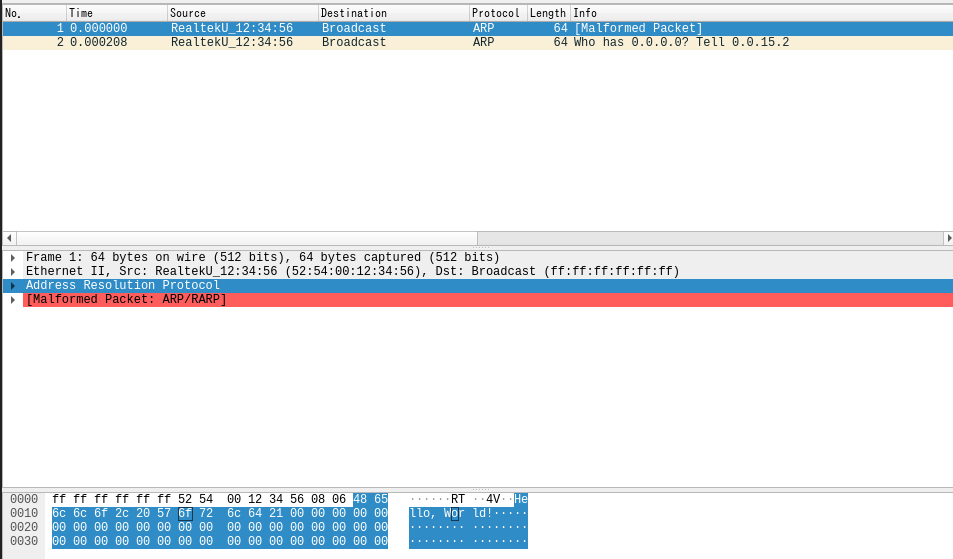
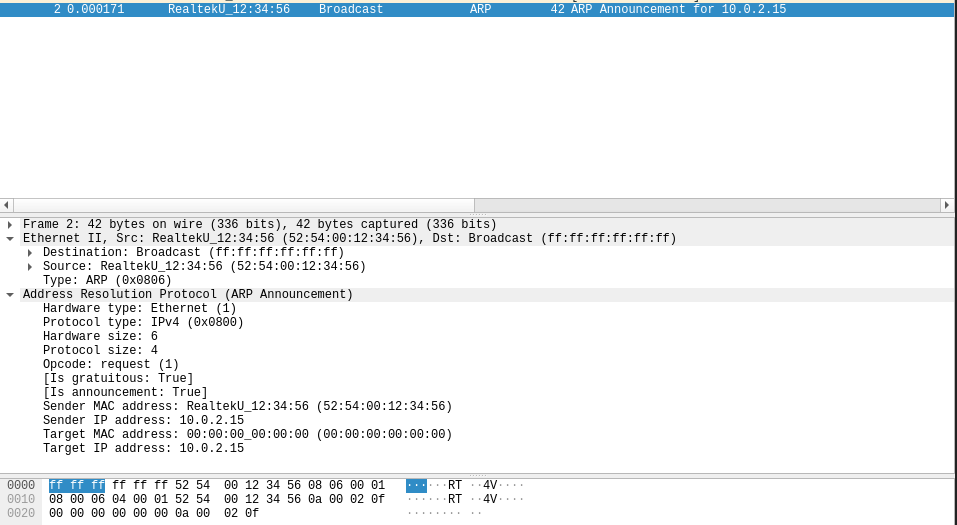
Fix bugs caused by struct padding and so on

Changed region(s): [[0.0, 0.0, 1.0, 1.0]]

diff --git a/ether.c b/ether.c
@@ -20,24 +20,14 @@ uint32_t gen_frame(void *dst, struct ether_hdr *ehdr, void *p_data, uint32_t dat
     memmove((void *)&hdr->type, (void *)&ehdr->type, ETHER_TYPE_LEN);
     memmove((void *)data, (void *)p_data, data_len);
 
-    if (data_len < ETHER_DATA_MIN_LEN) {
-        memset(data+data_len, 0, ETHER_DATA_MIN_LEN-data_len); // needs padding!
-        memmove(dst, (void *)frame, ETHER_FRAME_MIN_LEN);
-        return (uint32_t)ETHER_FRAME_MIN_LEN;
-    }
-    else {
-        memmove(dst, (void *)frame, ETHER_HDR_LEN + data_len);
-        return (uint32_t)(ETHER_HDR_LEN + data_len);
-    }
+    memmove(dst, (void *)frame, ETHER_HDR_LEN + data_len);
+    return (uint32_t)(ETHER_HDR_LEN + data_len);
 }
 
 
 uint32_t sendframe(struct net *inet, void *p_packet, uint32_t packet_len)
 {
-    if (packet_len > ETHER_DATA_MAX_LEN || !p_packet)
-        return 0;
-
-    if (packet_len < ETHER_DATA_MIN_LEN)
+    if (packet_len > ETHER_DATA_MAX_LEN || !p_packet || !packet_len)
         return 0;
 
     uint32_t (*send)(struct net *inet, void *p_packet, uint32_t packet_len) = inet->send;

diff --git a/arp.c b/arp.c
@@ -19,7 +19,7 @@ static inline void arp_ether_ipv4_set_len(struct arp_frame *arp)
 }
 
 
-void gen_ether_arp_probe(struct net *inet, struct arp_frame *arp)
+void gen_ether_garp(struct net *inet, struct arp_frame *arp)
 {
     arp_ether_ipv4_set_type(arp);
     arp_ether_ipv4_set_len(arp);
@@ -46,7 +46,7 @@ int arpinit(void)
     ehdr.type = ETHER_TYPE_ARP;
 
     memset(&arp, 0, sizeof(struct arp_frame));
-    gen_ether_arp_probe(inet, &arp);
+    gen_ether_garp(inet, &arp);
 
     frame = kalloc();
     frame_len = gen_frame(frame, &ehdr, &arp, sizeof(arp));

diff --git a/net.c b/net.c
@@ -38,7 +38,7 @@ int set_ipv4_addr(uint32_t ipv4_addr)
 
 int netinit(void)
 {
-    uint32_t ipv4_addr = 0x1000020f;
+    uint32_t ipv4_addr = 0x0f02000a;
     set_ipv4_addr(ipv4_addr);
     arpinit();
     return 0;

diff --git a/arp.h b/arp.h
@@ -11,7 +11,7 @@
 #define ATE_MAX_NUM      0x100
 
 
-struct arp_frame {
+struct __attribute__((__packed__)) arp_frame {
     uint16_t htype;
     uint16_t ptype;
     uint8_t  hlen;
